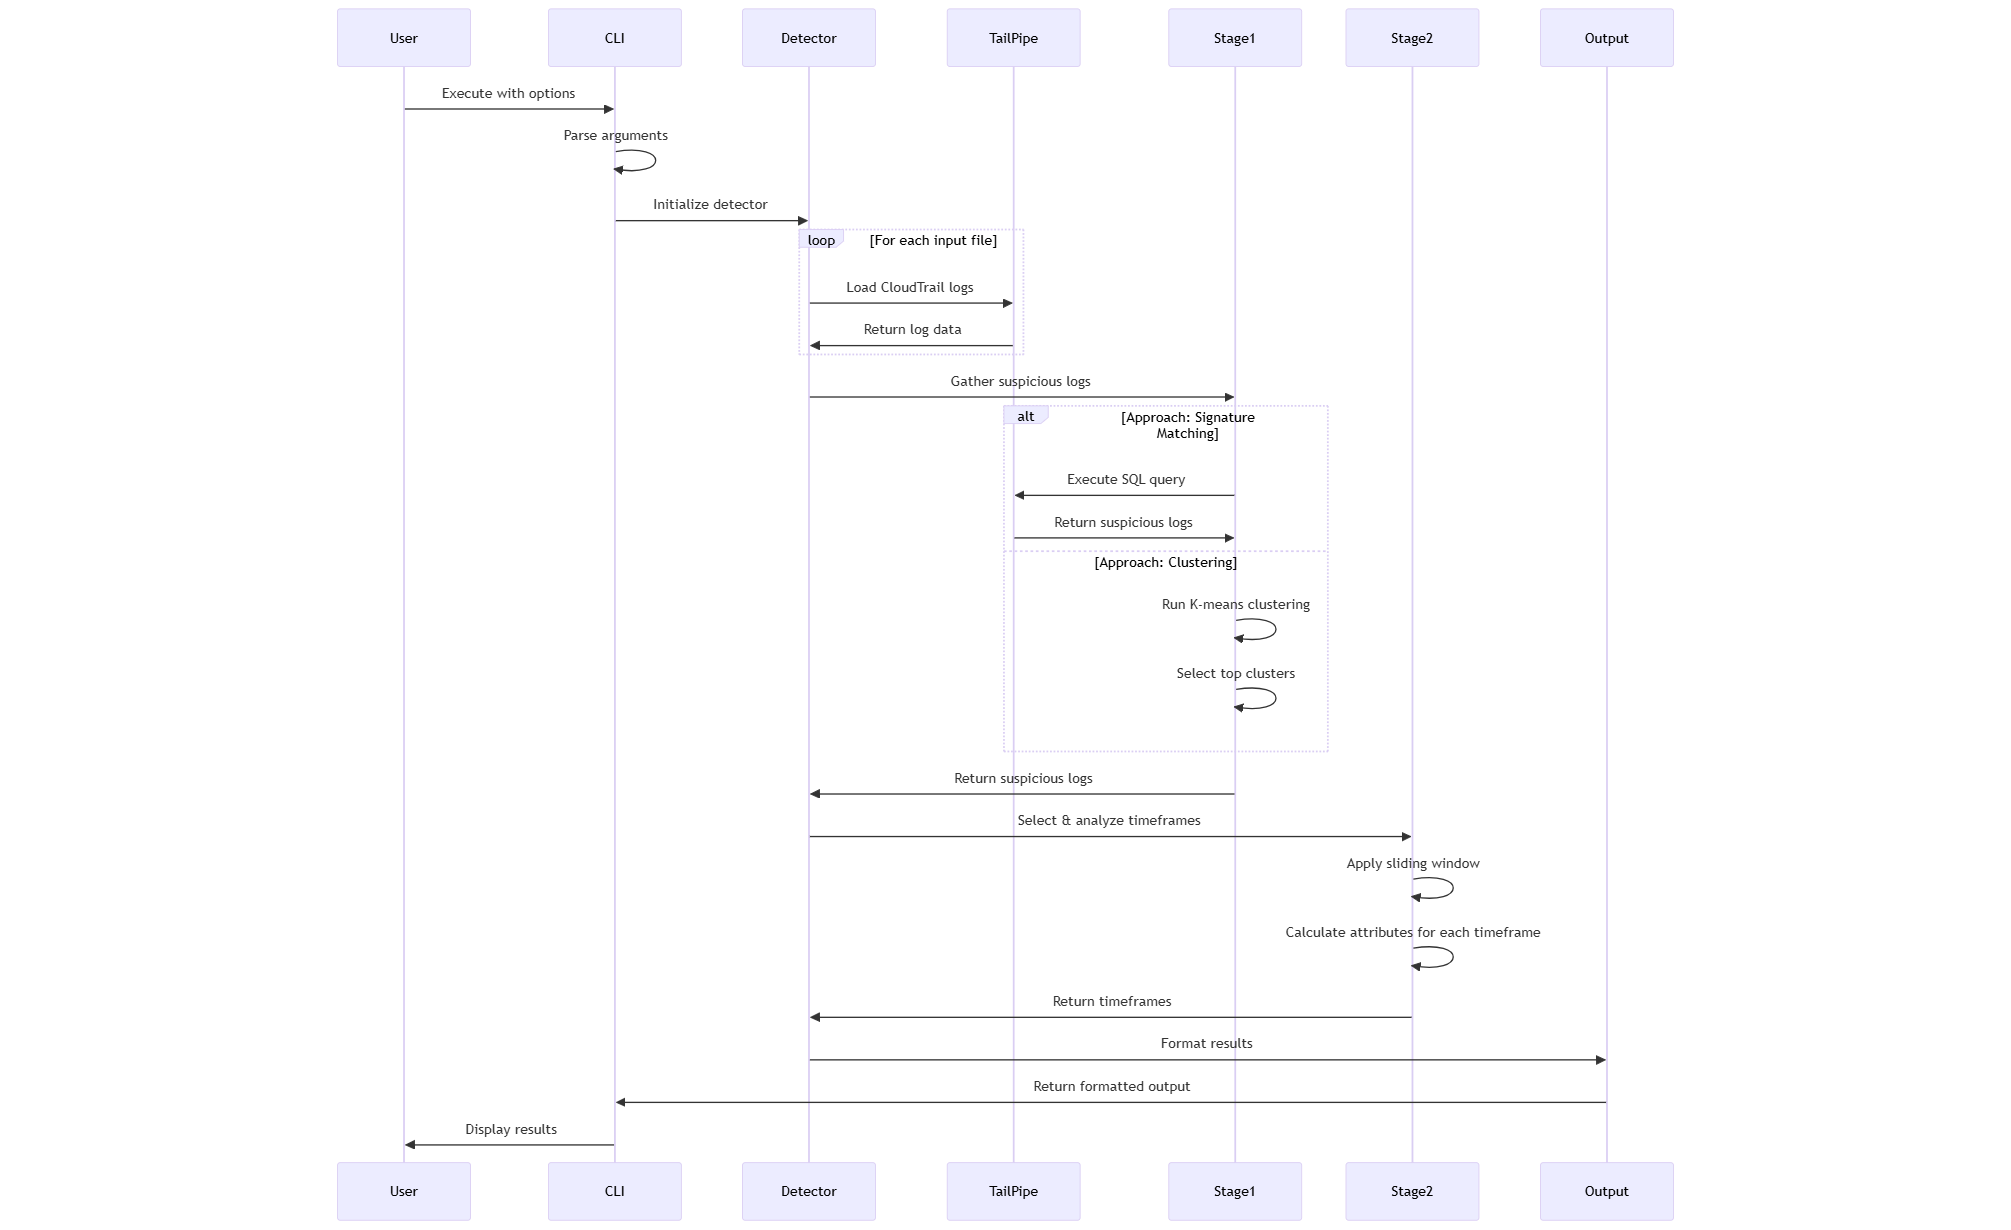
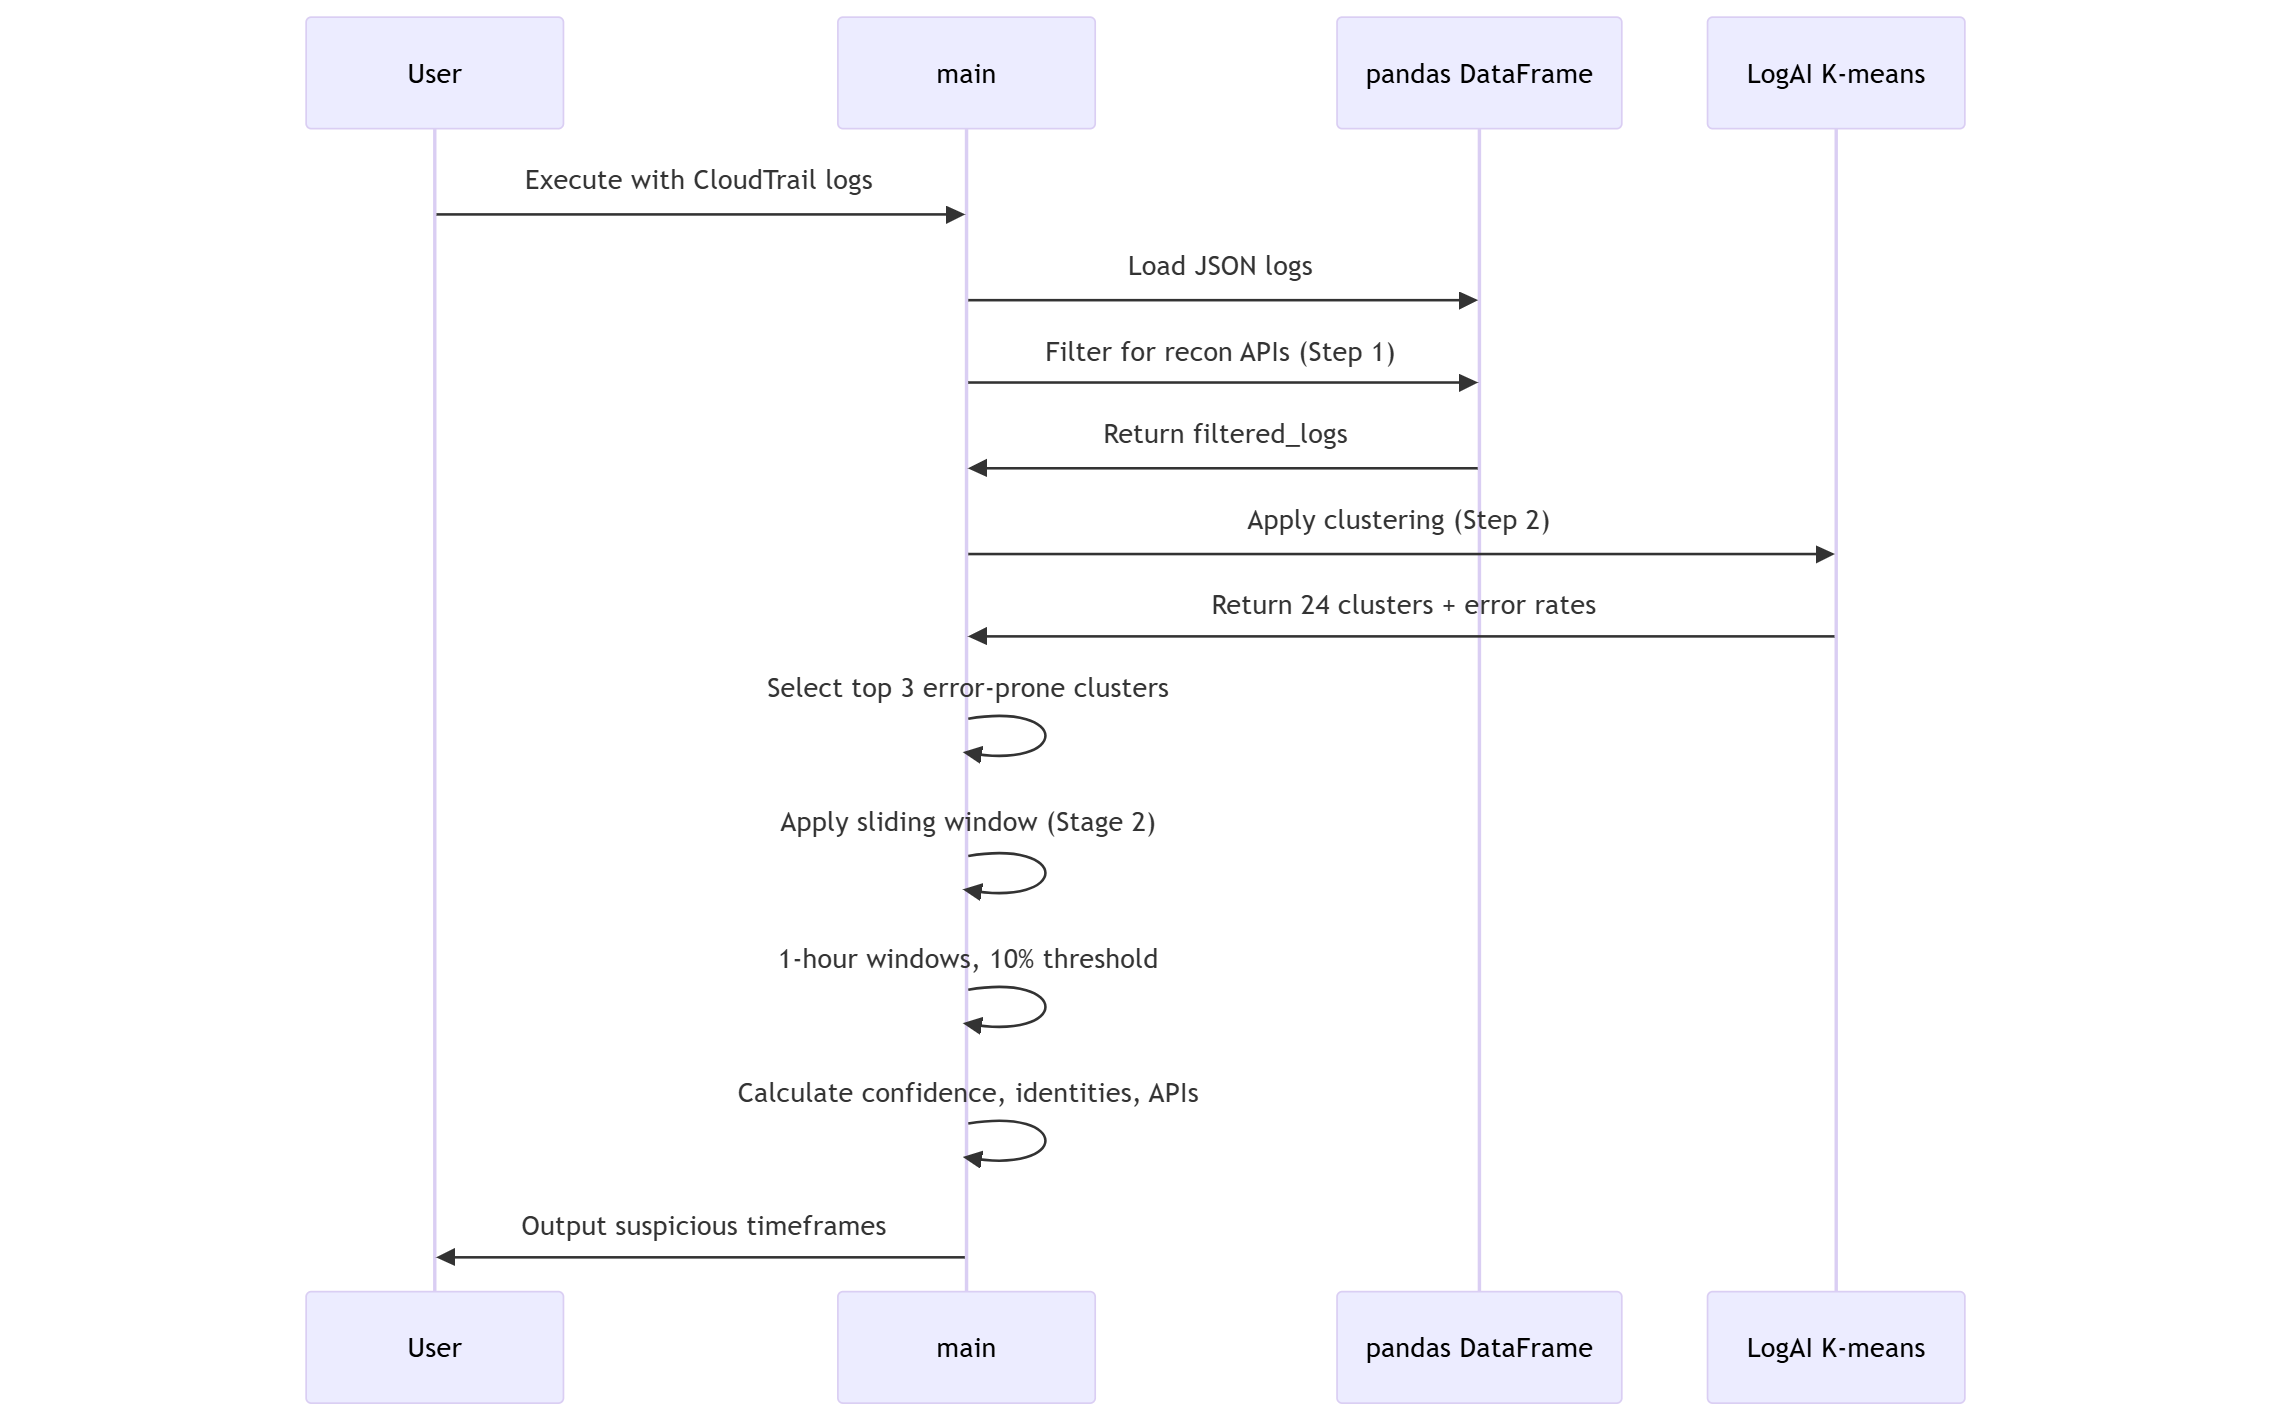
Update design-doc.md. Added attributes of logs to be used in clustering in Stage 1. Added details of sliding window in Stage 2.

diff --git a/docs/design-doc.md b/docs/design-doc.md
@@ -16,18 +16,22 @@ This document outlines the design for a command-line tool that detects reconnais
 ---
 The tool will:
 - Process CloudTrail logs in JSON format from one or multiple files
-- Detect reconnaissance activity using predefined API signatures and optional machine learning clustering
+- Detect reconnaissance activity using predefined API signatures and machine learning clustering
 - Output timeframes of suspicious activity with confidence scores, actor identities, and example API calls
 - Support filtering by time ranges and specific API types
-- Handle large log volumes efficiently using TailPipe
+- Handle large log volumes efficiently using pandas DataFrames
+
+The tool will not:
+- Detect activities associated with actions in stages later than reconnaissance, such as data exfiltration, lateral movement, or privilege escalation
+- Analyze the intention of attackers or profile attackers beyond basic identity information
+- Integrate with external threat intelligence feeds like MITRE or SIEM systems
 
 ### Definitions, Acronyms and Abbreviations
 
 ---
 - **CloudTrail**: AWS service that logs API calls and account activity
 - **Reconnaissance**: Information gathering activities that may precede cyber attacks
-- **TailPipe**: Go-based open source log querying tool that uses DuckDB for processing
-- **DuckDB**: In-process analytical database designed for analytical workloads
+- **pandas**: Python library for data manipulation and analysis, providing DataFrame structures for efficient log processing
 - **K-means**: Clustering algorithm that partitions data into K groups based on similarities
 - **LogAI**: Salesforce's open-source log analysis and intelligence platform
 
@@ -35,7 +39,7 @@ The tool will:
 
 ---
 - [Flaws.cloud CloudTrail Dataset](https://summitroute.com/blog/2020/10/09/public_dataset_of_cloudtrail_logs_from_flaws_cloud/)
-- [TailPipe GitHub Repository](https://github.com/turbot/tailpipe)
+- [pandas Documentation](https://pandas.pydata.org/docs/)
 - [LogAI Clustering Demo](https://github.com/salesforce/logai/tree/main?tab=readme-ov-file#log-clustering)
 <!-- - [AWS Reconnaissance API Reference](https://github.com/shijiew555/ReconRaptor/blob/main/docs/aws_recon_api_reference.md) -->
 - [AWS Reconnaissance API Reference](aws_recon_api_reference.md)
@@ -46,10 +50,15 @@ The tool will:
 
 The system is designed as a command-line tool that processes CloudTrail logs to detect reconnaissance activity. It employs a two-stage detection approach:
 
-1. **Stage 1**: Gather suspicious logs using either API signature matching or machine learning clustering
+1. **Stage 1**: Gather suspicious logs using either API signature matching and K-means clustering
 2. **Stage 2**: Analyze temporal patterns to identify concentrated timeframes of suspicious activity
 
-The tool leverages TailPipe for efficient log processing and provides configurable output filtering options. The design prioritizes performance for large log volumes while maintaining accuracy in detection.
+The tool leverages pandas DataFrames for efficient log processing and provides configurable output filtering options. The design prioritizes performance for large log volumes while maintaining accuracy in detection.
+
+### Technology Choice
+
+---
+**pandas DataFrames** were selected as the primary query engine after evaluating alternatives including TailPipe + DuckDB. pandas was chosen for its performance (processing large logs within seconds), language consistency (Python-native), and mature ecosystem. TailPipe + DuckDB were rejected due to language inconsistency (Go vs Python) and limited ecosystem maturity compared to pandas.
 
 ## System Components
 
@@ -109,24 +118,42 @@ reconraptor -f logs/*.json --output json --verbose
 
 The reconnaissance detection workflow consists of 2 stages designed to identify and analyze suspicious activity patterns in CloudTrail logs:
 
-**Stage 1: Suspicious Log Gathering** - This stage filters the input logs to identify entries that match reconnaissance patterns. It employs 2 different approaches to detect suspicious activity, with the primary method being API matching and a ML approach as an enhancement.
+**Stage 1: Suspicious Log Gathering** - This stage employs a two-step approach: first filtering logs for reconnaissance APIs using pandas, then applying K-means clustering to separate suspicious logs from legitimate ones based on error patterns.
 
 **Stage 2: Timeframe Analysis** - This stage analyzes the temporal distribution of suspicious logs to identify the timeframes where reconnaissance activity occurred. It uses a sliding window algorithm to find timeframes with high density of suspicious activity. It calculates the identities, confidence score, example APIs, for each identified timeframe.
+
+**Abandoned Algorithm Ideas:**
+
+- **Supervised Learning with CloudWatch**: Considered using CloudWatch to generate labeled data from flaws.cloud dataset, but rejected due to continuous retraining requirement.
 
 #### Stage 1: Suspicious Log Gathering
 
 ---
-There are 2 different approaches for Stage 1.
+Stage 1 employs a two-step approach to identify suspicious logs from CloudTrail data:
 
-*Approach 1: API Signature Matching (Primary Implementation)*
+**Step 1: API Signature Filtering**
+First, we filter logs that contain APIs associated with reconnaissance activities. All logs with reconnaissance APIs specified in [aws_recon_api_reference.md](https://github.com/shijiew555/ReconRaptor/blob/main/docs/aws_recon_api_reference.md) will be selected. This is implemented using pandas DataFrame operations for efficient filtering.
 
+```python
+# Filter logs containing reconnaissance APIs
+filtered_logs = df[df['eventName'].isin(['DescribeInstances', 'ListBuckets', 'GetUser', 'ListRoles'])]
+```
 
-This approach scans logs with a predefined lists of AWS API calls commonly associated with reconnaissance activities. See the curated list in [aws_recon_api_reference.md](https://github.com/shijiew555/ReconRaptor/blob/main/docs/aws_recon_api_reference.md). The tool executes SQL queries through TailPipe to filter CloudTrail logs for specific API names like `DescribeInstances`, `ListBuckets`, `GetUser`, `ListRoles`, and `DescribeSecurityGroups`. 
+**Step 2: K-means Clustering for Suspicious Log Identification**
+The filtered logs are then processed using a K-means clustering model to separate suspicious logs from legitimate ones. The model clusters logs into 24 groups based on similarity, and the top 3 groups with the highest percentage of error codes are selected as suspicious.
 
-*Approach 2: K-means Clustering (Future Enhancement)*
+**Clustering Implementation Details:**
+- **Model Source**: The K-means clustering model is part of the open-source LogAI project, with clustering demo available at: https://github.com/salesforce/logai/tree/main?tab=readme-ov-file#log-clustering
+- **Feature Vector**: Each log is represented by a 13-dimensional feature vector containing: `("eventName", "eventSource", "eventCategory", "eventType", "userIdentity", "sessionContext", "recipientAccountId", "sourceIPAddress", "awsRegion", "userAgent", "errorCode", "requestParameters", "responseElements")`
+- **Suspicious Log Selection**: Logs in the top 3 clusters with the **highest error percentages** are flagged as suspicious. This approach leverages the insight that legitimate logs (e.g., from Infrastructure as Code workflows) typically don't result in many errors, while reconnaissance activities often generate error codes due to access attempts or invalid parameters.
 
+**Advantages of This Approach:**
+- **Better Accuracy**: The K-means model can correlate logs using more information than just API names, providing more nuanced detection
+- **Error-based Filtering**: Uses error codes as a reliable indicator of suspicious activity
+- **Comprehensive Feature Analysis**: Considers multiple dimensions including user identity, session context, and request parameters
 
-This approach leverages K-means clustering model introduced by logAI to group logs by similarity across multiple dimensions beyond just API names. The algorithm partitions logs into clusters and then scores each cluster based on the percentage of reconnaissance APIs it contains. The top 3 clusters with the highest reconnaissance percentages are selected for stage 2.
+**Trade-offs:**
+- May omit some suspicious logs that don't fall into the top 3 error-prone clusters. 
 
 #### Stage 2: Timeframe Selection and Analysis
 
@@ -134,8 +161,24 @@ This approach leverages K-means clustering model introduced by logAI to group lo
 
 **Sliding Window Algorithm**
 
+The sliding window algorithm examines the temporal distribution of suspicious logs by moving a 1-hour time window across the log timeline. Timeframes that contain a density of suspicious logs reaching a 10% threshold are flagged as potential reconnaissance periods.
 
-The sliding window algorithm examines the temporal distribution of suspicious logs by moving a configurable time window across the log timeline. Timeframes that meet a minimum density threshold are identified as potential reconnaissance periods. The algorithm then merges overlapping timeframes to create final detection results.
+**Algorithm Parameters:**
+- **Window Size**: 1 hour
+- **Density Threshold**: 10% suspicious logs within the timeframe
+- **Window Movement**: Continuous sliding across the timeline
+
+**Design Rationale:**
+This approach is based on the observation that reconnaissance scans tend to aggregate temporally, often occurring as sudden bursts of activity. The algorithm focuses on timeframes with concentrated suspicious activity rather than isolated incidents.
+
+**Advantages:**
+- **Threat-focused Detection**: Prioritizes timeframes with high concentrations of reconnaissance activity, which pose greater security risks
+- **Efficient Processing**: Simple sliding window implementation with clear thresholds
+- **Practical Security Value**: Aligns with security analysts' need to identify periods of heightened threat activity
+
+**Trade-offs:**
+- Could miss reconnaissance activities that are spread thinly over time
+- **Justification**: Timeframes with just a few reconnaissance scans pose significantly lower threat levels and are therefore less critical for immediate security response
 
 **Result Attribute Calculation**
 
@@ -148,6 +191,7 @@ For each identified timeframe, the tool calculates 3 key attributes:
 - **Identities**: A list of tuple (IP, IAM user, user-agent, OS) from suspicious logs in the timeframe.
 
 - **Example APIs**: A list of all reconnaissance API calls found within the suspicious logs of the timeframe.
+
 
 ### Sequence Diagram
 
